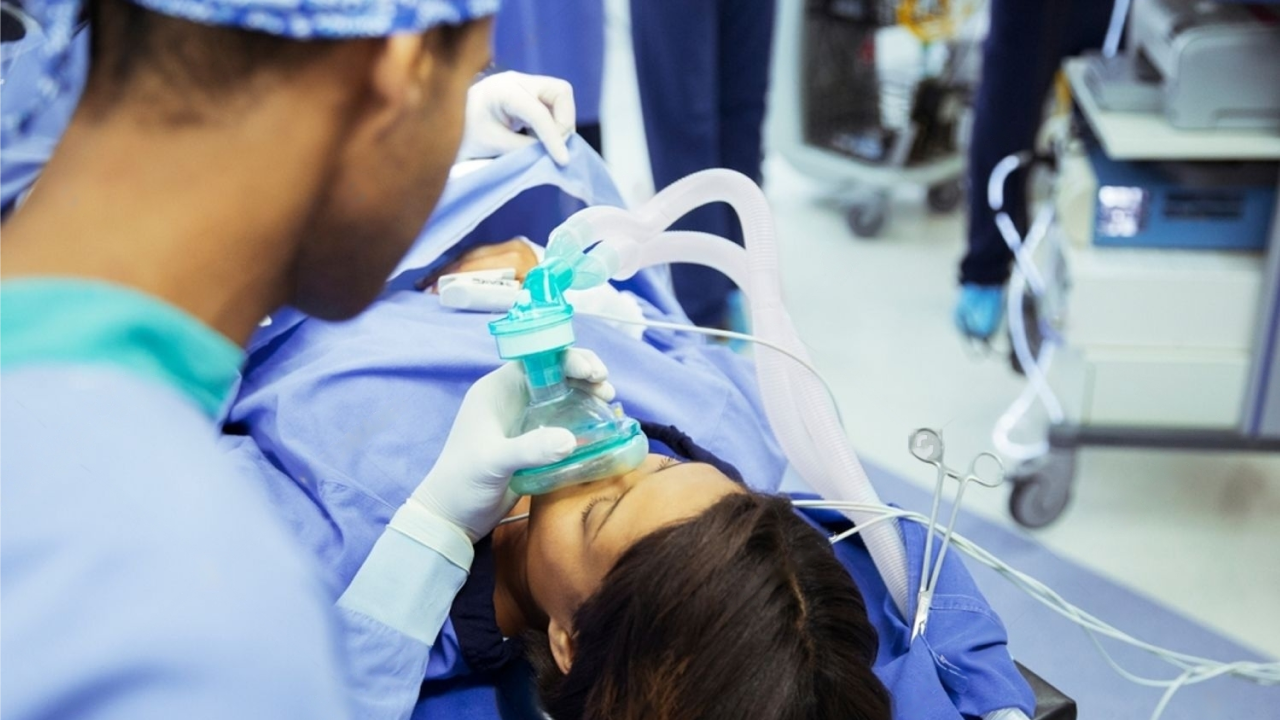
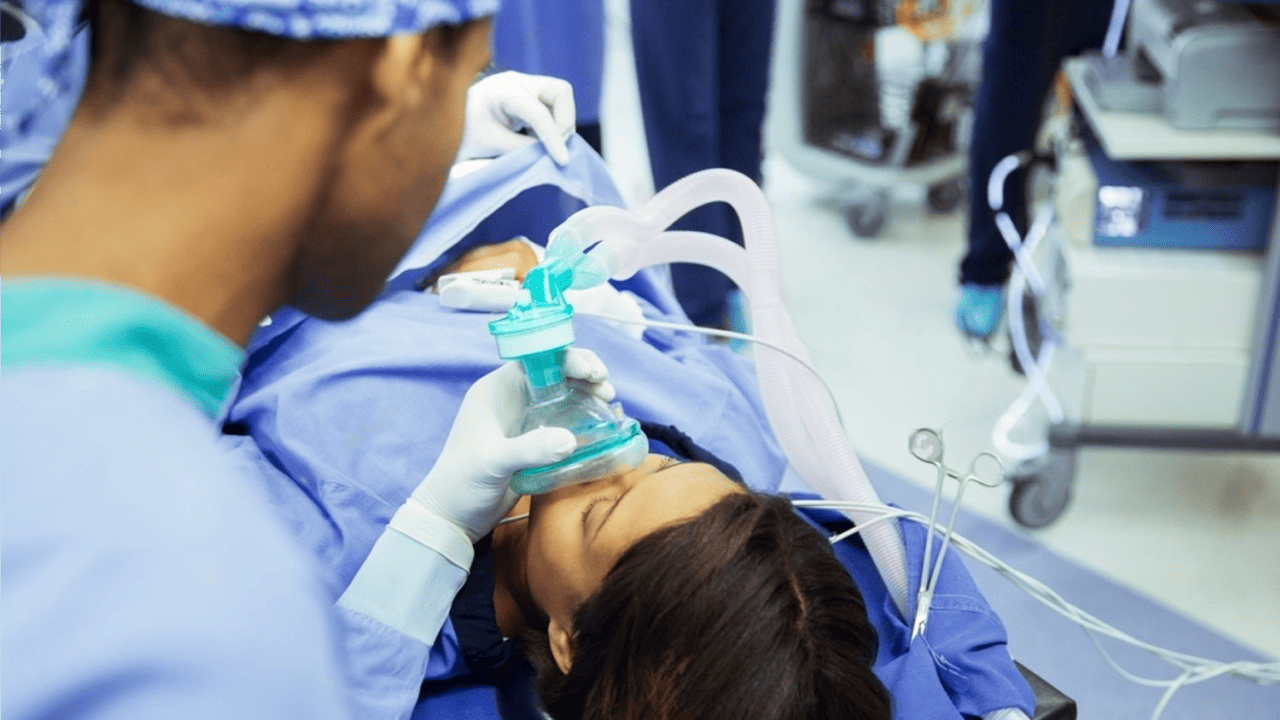
image compressor

diff --git a/index.php b/index.php
@@ -323,7 +323,10 @@
                            <img src="assets/images/emergency-care.png">
                         </div>
                         <div class="awrt-text">
-                           <h5>Accident / Emergency Care</h5>
+                           <a href="accident_emergency.php">
+                              <h5>Accident / Emergency Care</h5>
+                           </a>
+                           
                         </div>
                      </div>
                      <div class="item ass-wrapper">
@@ -331,7 +334,10 @@
                            <img src="assets/images/operation_theatre.png">
                         </div>
                         <div class="awrt-text">
-                           <h5>Twin Operation Theatre</h5>
+                           <a href="twin_operation.php">
+                              <h5>Twin Operation Theatre</h5>
+                           </a>
+                           
                         </div>
                      </div>
                      <div class="item ass-wrapper">
@@ -339,7 +345,10 @@
                            <img src="assets/images/fracture_clinic.png">
                         </div>
                         <div class="awrt-text">
-                           <h5>24 hrs Fracture Clinic</h5>
+                           <a href="fracture_clinic.php">
+                              <h5>24 hrs Fracture Clinic</h5>
+                           </a>
+                           
                         </div>
                      </div>
                      <div class="item ass-wrapper">
@@ -347,7 +356,10 @@
                            <img src="assets/images/head_injury.png">
                         </div>
                         <div class="awrt-text">
-                           <h5>Head Injury Care/Poly Trauma</h5>
+                           <a href="Trauma.php">
+                              <h5>Head Injury Care/Poly Trauma</h5>
+                           </a>
+                           
                         </div>
                      </div>
                      <div class="item ass-wrapper">
@@ -355,7 +367,10 @@
                            <img src="assets/images/kidney_stone.png">
                         </div>
                         <div class="awrt-text">
-                           <h5>Laser Kidney Stone Center</h5>
+                           <a href="kidney_stone.php">
+                              <h5>Laser Kidney Stone Center</h5>
+                           </a>
+                           
                         </div>
                      </div>
                      <div class="item ass-wrapper">
@@ -363,7 +378,10 @@
                            <img src="assets/images/spinal_surgery.png">
                         </div>
                         <div class="awrt-text">
-                           <h5>Endoscopic Spinal Surgeries</h5>
+                           <a href="endoscopic.php">
+                              <h5>Endoscopic Spinal Surgeries</h5>
+                           </a>
+                           
                         </div>
                      </div>
                      <div class="item ass-wrapper">
@@ -371,7 +389,10 @@
                            <img src="assets/images/laproscopic.png">
                         </div>
                         <div class="awrt-text">
-                           <h5>Laproscopic-key Hole Surgeries</h5>
+                           <a href="laproscopic.php">
+                              <h5>Laproscopic-key Hole Surgeries</h5>
+                           </a>
+                           
                         </div>
                      </div>
                      <div class="item ass-wrapper">
@@ -379,7 +400,10 @@
                            <img src="assets/images/joint_replacement.png">
                         </div>
                         <div class="awrt-text">
-                           <h5>Joint Replacement Surgeries</h5>
+                           <a href="joint_replacement.php">
+                              <h5>Joint Replacement Surgeries</h5>
+                           </a>
+                           
                         </div>
                      </div>
                      <div class="item ass-wrapper">
@@ -387,7 +411,10 @@
                            <img src="assets/images/androscopic.png">
                         </div>
                         <div class="awrt-text">
-                           <h5>Arthroscopy Surgeries</h5>
+                           <a href="arthroscopy_surgeries.php">
+                              <h5>Arthroscopy Surgeries</h5>
+                           </a>
+                           
                         </div>
                      </div>
                      <div class="item ass-wrapper">
@@ -395,7 +422,10 @@
                            <img src="assets/images/intramedullary.png">
                         </div>
                         <div class="awrt-text">
-                           <h5>Intramedullary nailing</h5>
+                           <a href="intramedullary_nailing.php">
+                              <h5>Intramedullary nailing</h5>
+                           </a>
+                           
                         </div>
                      </div>
                   </div>

diff --git a/footer.php b/footer.php
@@ -86,6 +86,8 @@
                   <li><a href="Ultrasonogram.php"><img src="assets/images/light-blue-next-arrow.svg"> Ultrasonogram</a></li>
                   <li><a href="doppler_studies.php"><img src="assets/images/light-blue-next-arrow.svg"> Doppler Studies</a></li>
                   <li><a href="ucg.php"><img src="assets/images/light-blue-next-arrow.svg"> UCG Special Studies</a></li>
+                  <li><a href="pharmacy.php"><img src="assets/images/light-blue-next-arrow.svg"> Pharmacy</a></li>
+                  <li><a href="icu.php"><img src="assets/images/light-blue-next-arrow.svg"> Intensive Care Unit (ICU)</a></li>
                  
                </ul>
             </div>
